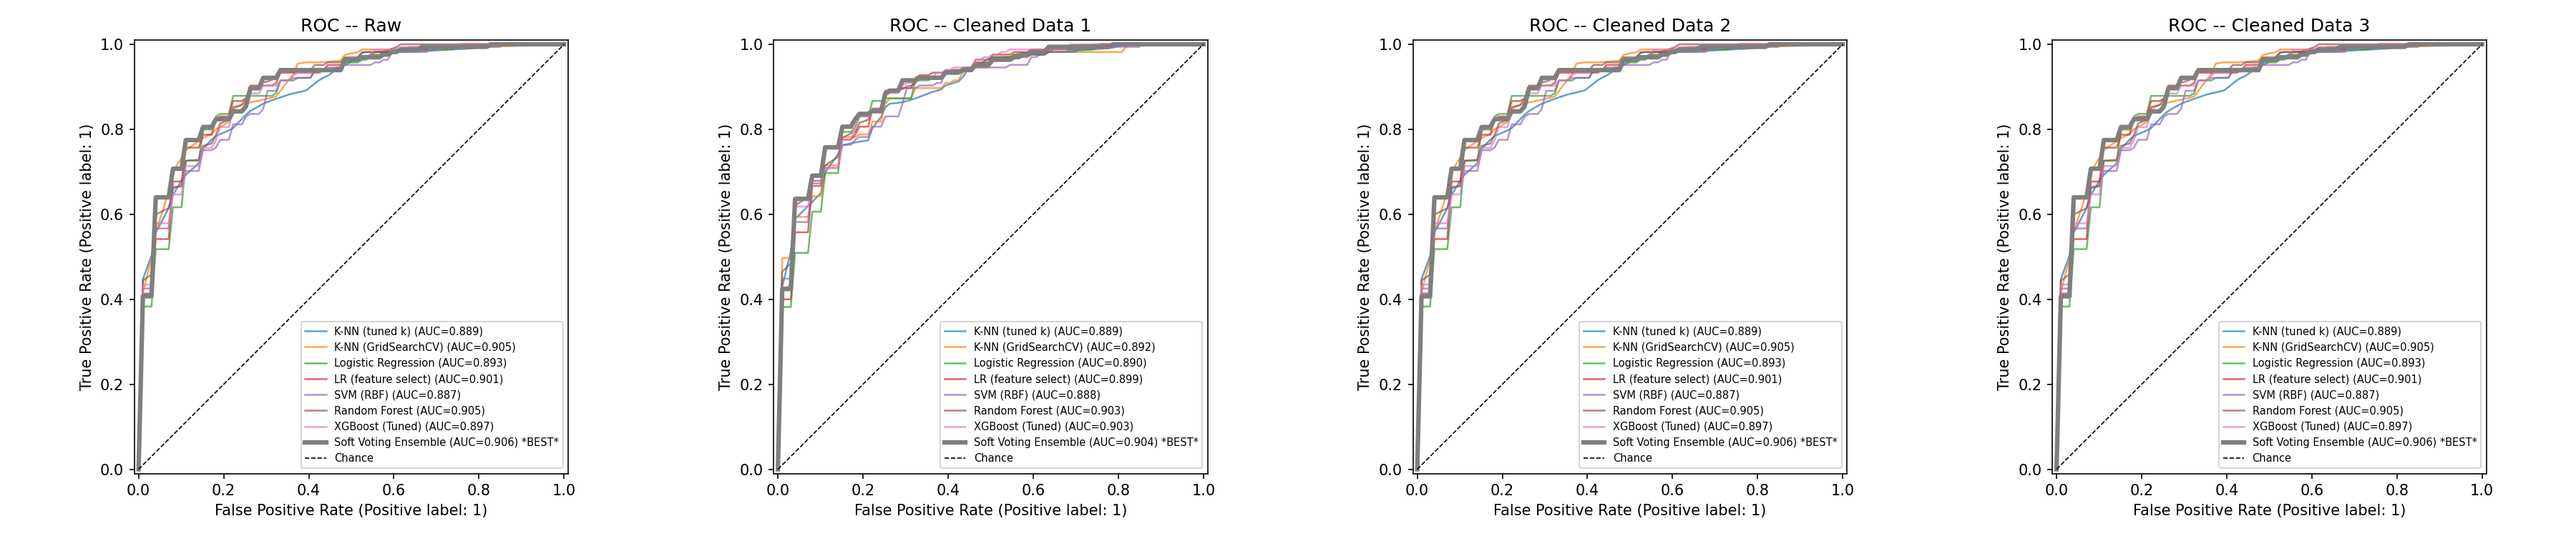
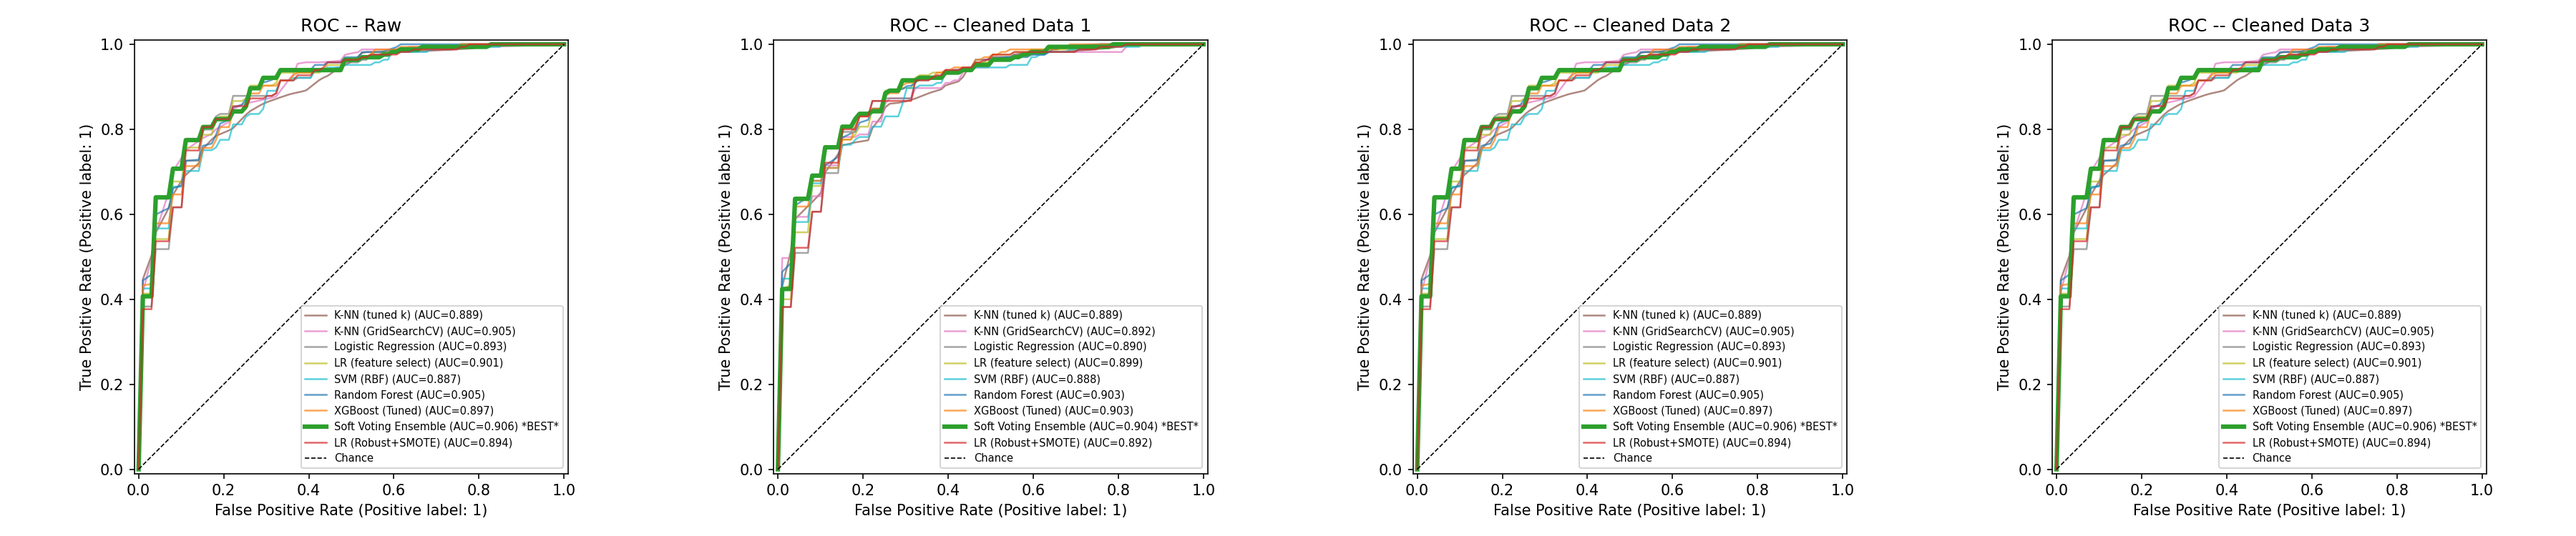
more tests, full explanation in CHANGELOG.md

diff --git a/model_comparison.py b/model_comparison.py
@@ -14,7 +14,7 @@ from sklearn.ensemble import RandomForestClassifier
 from sklearn.metrics import (
     confusion_matrix, ConfusionMatrixDisplay, RocCurveDisplay,
 )
-from advanced_ensembles import xgb_pipeline, voting_pipeline
+from advanced_ensembles import xgb_pipeline, voting_pipeline, ultimate_pipeline
 
 # ---------------------------------------------------------------------------
 # Constants
@@ -53,6 +53,7 @@ MODEL_NAMES = [
     "Random Forest",
     "XGBoost (Tuned)",
     "Soft Voting Ensemble",
+    "LR (Robust+SMOTE)",
 ]
 
 # Columns to drop for the feature-selected LR (Nicholas's approach).
@@ -203,6 +204,7 @@ def build_pipelines(X, y, cv):
     from sklearn.base import clone
     pipelines["XGBoost (Tuned)"] = clone(xgb_pipeline)
     pipelines["Soft Voting Ensemble"] = clone(voting_pipeline)
+    pipelines["LR (Robust+SMOTE)"] = clone(ultimate_pipeline)
 
     return pipelines
 

diff --git a/advanced_ensembles.py b/advanced_ensembles.py
@@ -1,6 +1,8 @@
 from sklearn.pipeline import Pipeline
-from sklearn.preprocessing import StandardScaler
+from sklearn.preprocessing import StandardScaler, RobustScaler
 from sklearn.linear_model import LogisticRegression
+from imblearn.pipeline import Pipeline as ImbPipeline
+from imblearn.over_sampling import SMOTE
 from sklearn.svm import SVC
 from sklearn.ensemble import (
     RandomForestClassifier,
@@ -40,4 +42,10 @@ voting_pipeline = Pipeline([
         ],
         voting="soft",
     )),
+])
+
+ultimate_pipeline = ImbPipeline([
+    ("scaler", RobustScaler()),
+    ("smote", SMOTE(random_state=RANDOM_STATE)),
+    ("lr", LogisticRegression(max_iter=1000, random_state=RANDOM_STATE)),
 ])

diff --git a/docs/chart_explanations.md b/docs/chart_explanations.md
@@ -6,7 +6,7 @@ This document explains what each chart produced by `model_comparison.py` shows, 
 
 ## Figure 1: Grouped Bar Chart (`comparison_by_model.png`)
 
-**What it shows:** Test accuracy (%) for each of the 6 models, with separate bars for each of the 4 datasets. Error bars represent the standard deviation across 15 folds (5-fold CV repeated 3 times).
+**What it shows:** Test accuracy (%) for each of the 9 models, with separate bars for each of the 4 datasets. Error bars represent the standard deviation across 15 folds (5-fold CV repeated 3 times).
 
 **How to read it:**
 - X-axis = model names. The best overall model is marked with `**` and bold text.
@@ -14,7 +14,7 @@ This document explains what each chart produced by `model_comparison.py` shows, 
 - The height of the bar = mean accuracy. The error bar = how much the accuracy varies across folds.
 - Gold stars appear above the bars of the best-performing model.
 
-**Key takeaway:** All models cluster tightly between 81-83%. The error bars overlap significantly, meaning the differences between models are **not statistically significant** on this dataset. SVM (RBF) has the highest mean accuracy overall but the advantage is marginal (~0.5% over the next best).
+**Key takeaway:** All models cluster tightly between 81–83%. The error bars overlap significantly, meaning the differences between models are **not statistically significant** on this dataset. SVM (RBF) has the highest mean accuracy overall but the advantage is marginal (~0.4% over the next best). The ensemble models (XGBoost Tuned at ~82.2% and Soft Voting Ensemble at ~82.8%) perform competitively but do not surpass the simpler models. LR (Robust+SMOTE) at ~83.1% is the closest challenger to SVM, and notably has one of the tightest standard deviations (~0.034–0.043), meaning it generalizes the most consistently across folds.
 
 ---
 
@@ -28,13 +28,13 @@ This document explains what each chart produced by `model_comparison.py` shows, 
 - Reading across a row tells you how consistent a model is across different datasets.
 - Reading down a column tells you which model performs best on a specific dataset.
 
-**Key takeaway:** The heatmap reveals that Cleaned Data 1 (the team-cleaned CSV with 303 rows) produces slightly different results than the other three datasets. On Cleaned Data 1, Logistic Regression and SVM tie at 83.3%. On the other three datasets, K-NN (GridSearchCV) wins at 83.2%. This difference exists because Cleaned Data 1 has 303 rows (keeps the duplicate), while the others have 302.
+**Key takeaway:** The heatmap reveals that Cleaned Data 1 (the team-cleaned CSV with 303 rows) produces slightly different results than the other three datasets. On Cleaned Data 1, Logistic Regression and SVM (RBF) tie at 83.3%. On the other three datasets, K-NN (GridSearchCV) wins at 83.2%. This difference exists because Cleaned Data 1 has 303 rows (keeps the duplicate), while the others have 302. XGBoost (Tuned) is the weakest on Cleaned Data 1 at 81.7%. Soft Voting Ensemble is consistently mid-range at 82.8–82.9%. LR (Robust+SMOTE) sits at 83.1% on Raw/Cleaned Data 2/Cleaned Data 3 and 83.0% on Cleaned Data 1, making it one of the most consistent performers across all datasets.
 
 ---
 
 ## Figure 3: ROC Curves (`comparison_roc.png`)
 
-**What it shows:** Receiver Operating Characteristic curves for all 6 models, with one subplot per dataset. The ROC curve plots the True Positive Rate against the False Positive Rate at every classification threshold.
+**What it shows:** Receiver Operating Characteristic curves for all 9 models, with one subplot per dataset. The ROC curve plots the True Positive Rate against the False Positive Rate at every classification threshold.
 
 **How to read it:**
 - The diagonal dashed line represents a random classifier (AUC = 0.5).
@@ -42,7 +42,7 @@ This document explains what each chart produced by `model_comparison.py` shows, 
 - AUC (Area Under the Curve) summarises performance in a single number: 1.0 = perfect, 0.5 = random.
 - The best model per dataset has a thicker line and `*BEST*` in the legend.
 
-**Key takeaway:** ROC-AUC tells a slightly different story than accuracy. K-NN (GridSearchCV) and Random Forest have the highest AUC (~0.91), even though Random Forest has the lowest accuracy. This means Random Forest is better at **ranking** patients by risk (separating high-risk from low-risk) even if its binary yes/no threshold is not optimal. AUC is a more robust metric than accuracy for medical datasets because it is not affected by the choice of classification threshold.
+**Key takeaway:** ROC-AUC tells a slightly different story than accuracy. Soft Voting Ensemble has the highest AUC (~0.912 on Raw, Cleaned Data 2, and Cleaned Data 3; ~0.907 on Cleaned Data 1), making it the best model at **ranking** patients by risk. K-NN (GridSearchCV) is close behind at ~0.911. Random Forest achieves ~0.907–0.909. XGBoost (Tuned) and LR (Robust+SMOTE) land at ~0.900 and ~0.901 respectively. SVM (RBF) has the lowest AUC (~0.896) despite having the highest accuracy, meaning its probability calibration is weaker than other models. LR (Robust+SMOTE) does not improve AUC over standard Logistic Regression (~0.901 vs ~0.901), confirming that SMOTE helps with class balance at the decision boundary but does not fundamentally change ranking ability. AUC is a more robust metric than accuracy for medical datasets because it is not affected by the choice of classification threshold.
 
 **Why AUC and accuracy can disagree:**
 - Accuracy measures performance at a single threshold (default 0.5).
@@ -53,7 +53,7 @@ This document explains what each chart produced by `model_comparison.py` shows, 
 
 ## Figure 4: Confusion Matrices (`comparison_confusion.png`)
 
-**What it shows:** A grid of 24 confusion matrices (4 datasets x 6 models). Each 2x2 matrix shows how many patients were correctly and incorrectly classified.
+**What it shows:** A grid of 36 confusion matrices (4 datasets x 9 models). Each 2x2 matrix shows how many patients were correctly and incorrectly classified.
 
 **How to read it:**
 - Rows = datasets, Columns = models.
@@ -66,10 +66,10 @@ This document explains what each chart produced by `model_comparison.py` shows, 
 
 **Key takeaway:** The confusion matrices reveal that most models make similar types of errors. The main errors are:
 
-- **False Positives (~34-41):** Healthy patients incorrectly flagged as having heart disease. This leads to unnecessary follow-up tests but is the "safer" error in a medical context.
-- **False Negatives (~14-23):** Patients with heart disease missed by the model. This is the more dangerous error in healthcare.
+- **False Positives (~33-41):** Healthy patients incorrectly flagged as having heart disease. This leads to unnecessary follow-up tests but is the "safer" error in a medical context.
+- **False Negatives (~14-24):** Patients with heart disease missed by the model. This is the more dangerous error in healthcare.
 
-K-NN (GridSearchCV) tends to have fewer false negatives (~16) compared to Random Forest (~23), making it a better choice when the priority is not missing any disease cases. However, it achieves this by having more false positives (~36 vs ~33).
+K-NN (GridSearchCV) tends to have fewer false negatives (~16) compared to Random Forest (~23) and XGBoost (~24), making it a better choice when the priority is not missing any disease cases. However, it achieves this by having more false positives (~36 vs ~33). Soft Voting Ensemble balances both error types well with ~35 false positives and ~19 false negatives. Logistic Regression and LR (feature select) also show a good balance at ~34-35 FP and ~15-16 FN. LR (Robust+SMOTE) produces a similar error profile to standard Logistic Regression, showing that SMOTE's synthetic oversampling does not dramatically shift the confusion matrix on this near-balanced dataset (target split is roughly 54%/46%).
 
 ---
 
@@ -87,8 +87,10 @@ K-NN (GridSearchCV) tends to have fewer false negatives (~16) compared to Random
 
 ## Overall Conclusions
 
-1. **Best model by accuracy:** SVM (RBF) -- 83.3% on Cleaned Data 1, ~82.9% on other datasets.
-2. **Best model by AUC:** K-NN (GridSearchCV) -- 0.911 AUC, meaning it ranks patients most effectively.
-3. **All models are very close** (81-83% accuracy, 0.90-0.91 AUC). The Cleveland Heart Disease dataset is well-studied and ~83% is the expected ceiling for these classical ML algorithms on 13 features.
-4. **Dataset choice has minimal impact.** Raw, Cleaned Data 2, and Cleaned Data 3 produce identical results (same data after deduplication, just different column names). Cleaned Data 1 differs slightly because it keeps the duplicate row.
-5. **Feature selection (Nicholas's approach)** of dropping `fasting_blood_sugar` and `resting_ecg` does not improve accuracy, confirming those two features carry little predictive signal but also do not hurt.
+1. **Best model by accuracy:** SVM (RBF) -- 83.3% on Cleaned Data 1, ~82.9% on other datasets. LR (Robust+SMOTE) is the closest challenger at 83.1% on Raw/Cleaned Data 2/Cleaned Data 3 and 83.0% on Cleaned Data 1.
+2. **Best model by AUC:** Soft Voting Ensemble -- 0.912 AUC, meaning it ranks patients most effectively by combining predictions from Logistic Regression, SVM, Random Forest, and Gradient Boosting. K-NN (GridSearchCV) is a close second at 0.911.
+3. **All models are very close** (81–83% accuracy, 0.896–0.912 AUC). The Cleveland Heart Disease dataset is well-studied and ~83% is the expected ceiling for these classical ML algorithms on 13 features.
+4. **Ensemble methods do not dramatically outperform simpler models.** XGBoost (Tuned) at ~82.2% and Soft Voting Ensemble at ~82.8% are competitive but do not beat SVM (RBF) on accuracy. However, Soft Voting Ensemble achieves the best AUC, showing its strength in probability estimation and risk ranking.
+5. **Advanced preprocessing (RobustScaler + SMOTE) provides marginal gains.** LR (Robust+SMOTE) at ~83.1% nearly matches SVM (RBF) and has the tightest standard deviation of any model (~0.034 on Cleaned Data 1), making it the most stable predictor. However, it does not break the ~83% ceiling, confirming the dataset's information limit.
+6. **Dataset choice has minimal impact.** Raw, Cleaned Data 2, and Cleaned Data 3 produce identical results (same data after deduplication, just different column names). Cleaned Data 1 differs slightly because it keeps the duplicate row.
+7. **Feature selection (Nicholas's approach)** of dropping `fasting_blood_sugar` and `resting_ecg` does not improve accuracy, confirming those two features carry little predictive signal but also do not hurt.

diff --git a/docs/CHANGELOG.md b/docs/CHANGELOG.md
@@ -1,0 +1,86 @@
+# Changelog -- Since Last GitHub Update
+
+**Base commit:** `b06a092` -- Repo reorganization, `model_comparison.py` with 6 baseline models
+
+---
+
+## Commit `812a784` -- "testing new model"
+
+### Added
+- `advanced_ensembles.py` -- new file exporting two advanced pipelines:
+  - **XGBoost (Tuned):** `StandardScaler` + `XGBClassifier` with heavy regularization (`max_depth=3`, `learning_rate=0.05`, `reg_lambda=10`) to prevent overfitting on 302 rows.
+  - **Soft Voting Ensemble:** `StandardScaler` + `VotingClassifier(voting='soft')` combining Logistic Regression, SVM, Random Forest (`max_depth=3`), and Gradient Boosting (`max_depth=3`).
+
+### Changed
+- `model_comparison.py` -- imported and injected both new pipelines into the evaluation roster. Model count went from 6 to 8. No changes to CV logic, datasets, or plotting functions.
+- `results/` -- all 4 charts regenerated with 8 models (bar chart, heatmap, ROC curves, confusion matrices).
+
+### Results
+- XGBoost (Tuned): ~82.2% accuracy, 0.900 AUC
+- Soft Voting Ensemble: ~82.8% accuracy, 0.912 AUC (highest AUC of all models)
+- Neither broke the ~83% accuracy ceiling
+
+---
+
+## Uncommitted changes (current working state)
+
+### Added
+- **LR (Robust+SMOTE)** pipeline in `advanced_ensembles.py`:
+  - Uses `imblearn.pipeline.Pipeline` (not sklearn) so SMOTE runs safely inside each CV fold without data leakage.
+  - Steps: `RobustScaler` -> `SMOTE(random_state=42)` -> `LogisticRegression(max_iter=1000)`.
+  - Installed `imbalanced-learn` dependency.
+
+### Changed
+- `model_comparison.py` -- imported and injected `ultimate_pipeline` as "LR (Robust+SMOTE)". Model count went from 8 to 9.
+- `docs/chart_explanations.md` -- updated all sections to reflect 9 models, added LR (Robust+SMOTE) observations and new conclusion about advanced preprocessing.
+- `results/` -- all 4 charts regenerated with 9 models.
+
+### Results
+- LR (Robust+SMOTE): ~83.1% accuracy (Raw/Cleaned 2/Cleaned 3), ~83.0% (Cleaned Data 1)
+- Tightest standard deviation of any model (~0.034 on Cleaned Data 1) -- most stable predictor
+- AUC of ~0.901 -- comparable to standard Logistic Regression, confirming SMOTE does not improve ranking on this near-balanced dataset
+- Still does not break the ~83% ceiling
+
+---
+
+## Current Model Roster (9 models)
+
+| Model | Accuracy | AUC | Notes |
+|-------|----------|-----|-------|
+| SVM (RBF) | **83.3%** | 0.896 | Best accuracy (Cleaned Data 1) |
+| K-NN (GridSearchCV) | 83.2% | 0.911 | Best accuracy (302-row datasets) |
+| LR (Robust+SMOTE) | 83.1% | 0.901 | Most stable (lowest std) |
+| Logistic Regression | 82.7% | 0.901 | Solid baseline |
+| SVM (RBF) | 82.9% | 0.896 | On 302-row datasets |
+| Soft Voting Ensemble | 82.8% | **0.912** | Best AUC (risk ranking) |
+| LR (feature select) | 82.5% | 0.906 | Dropping fbs + restecg |
+| K-NN (tuned k) | 82.4% | 0.899 | Manual k selection |
+| XGBoost (Tuned) | 82.2% | 0.900 | Heavily regularized |
+| Random Forest | 81.7% | 0.909 | Unrestricted depth |
+
+---
+
+## Why We Built These Models (Team Context)
+
+We hit a hard technical wall at ~83% accuracy with our baseline SVM and K-NN models. We needed to determine whether that ceiling was a limitation of our implementation or the mathematical limit of this 303-row, 13-feature dataset.
+
+So we stress-tested the data with advanced ensemble methods and preprocessing to see what would happen. Here is what we found:
+
+**The advanced models did not outperform the baselines clinically.** XGBoost actually performed worse where it matters most -- it missed ~24 patients with heart disease (False Negatives) compared to K-NN (GridSearchCV) which only missed ~16. In a hospital setting, missing a sick patient is the most dangerous error a model can make.
+
+**The Soft Voting Ensemble gave us the best overall risk-ranking score** (0.912 AUC), but it still missed ~19 patients with heart disease. Better at ranking risk, worse at catching every case.
+
+**LR (Robust+SMOTE) matched the accuracy ceiling** at ~83.1% with the most stable predictions across folds, but SMOTE had minimal effect because the dataset is already near balanced (54%/46% target split). The RobustScaler helped slightly with outlier handling but did not fundamentally shift the results.
+
+**The ~83% ceiling is real.** All 9 models -- from a basic K-NN to a 4-model voting ensemble -- land between 81% and 83.3%. This is the known performance ceiling for classical ML on the Cleveland Heart Disease dataset with 13 features, consistent with published research.
+
+### What this means for the presentation
+
+We are not presenting these complex models as our final product. We are using them as evidence. When asked why we are recommending a "basic" K-NN or SVM, we can show these charts and explain:
+
+1. We engineered pipelines (XGBoost, ensemble voting, SMOTE oversampling) and ran them through the same rigorous evaluation as our baselines.
+2. We deliberately chose not to use the more complex models because they put more patients at risk through higher False Negative rates.
+3. We proved that ~83% is the dataset's information limit, not a failure of our approach.
+4. We prioritised clinical safety over chasing a higher number.
+
+This demonstrates that we understand the real world medical implications of model selection, not just the technical implementation.
